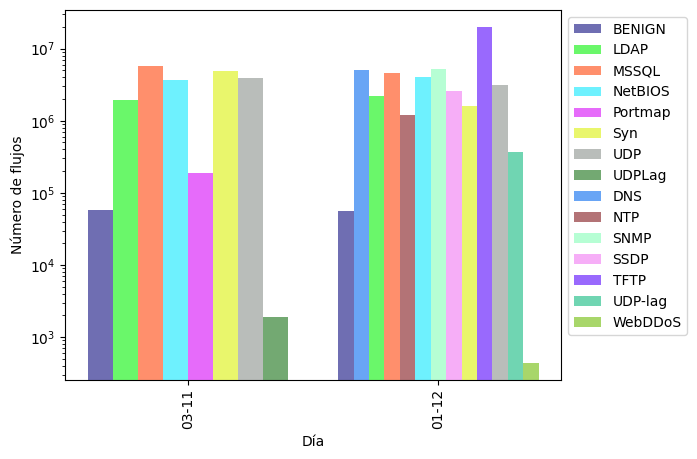
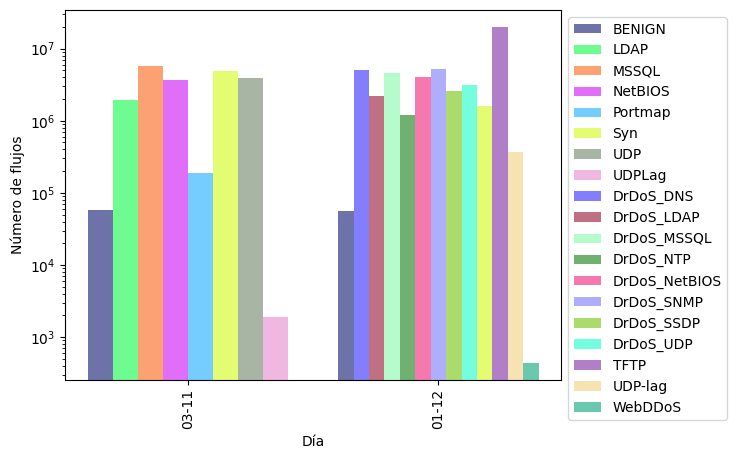
add timeline cicddos attacks + not remove DrDoS

diff --git a/scripts/plot_info_cicddos_2019.py b/scripts/plot_info_cicddos_2019.py
@@ -1,9 +1,11 @@
 
+from matplotlib.dates import DateFormatter
 import numpy as np  
 import matplotlib.pyplot as plt
 import distinctipy
 import json
 from pathlib import Path
+from datetime import datetime
 
 RESULT_FOLDER = Path("./tmp/")
 RESULT_FILENAME = "info_cicddos_2019.json"
@@ -12,6 +14,9 @@ REPORT_MEDIA_FOLDER = Path("./report/media/")
 def read_from_json(file: str):
     with open(file, 'r') as f:
         return json.loads(f.read())
+
+def get_text_color_from_bg(background_color):
+    return (0,0,0) if (background_color[0]*0.299 + background_color[1]*0.587 + background_color[2]*0.114) > 150/255 else (1,1,1)
 
 def generate_bars_labels_by_file(results: dict):
     for day in results:
@@ -72,14 +77,11 @@ def generate_histogram_labels_full(results):
         label_counts = {}
         for file in results[day]:
             for label in (results[day][file]['labels'].keys()):
-                # Ignore prefix if it exists
-                label_clean = label.split("_")[-1]
-
                 # Count
-                if label_clean in label_counts:
-                    label_counts[label_clean] += results[day][file]['labels'][label]['number']
+                if label in label_counts:
+                    label_counts[label] += results[day][file]['labels'][label]['number']
                 else:
-                    label_counts[label_clean] = results[day][file]['labels'][label]['number']
+                    label_counts[label] = results[day][file]['labels'][label]['number']
 
         # Generate bars
         x_axis_bar_group_start = x_axis - group_width/2
@@ -115,11 +117,73 @@ def generate_histogram_labels_full(results):
 
     plt.savefig(REPORT_MEDIA_FOLDER / f'./cicddos_2019_csv_day_results.png', bbox_inches="tight")
 
+def generate_timeline(results):
+    for day in results:
+        plt.clf()
+        fig, ax = plt.subplots(figsize=(20, 5))
+
+        # Generate a sorted list of csv times
+        file_times = []
+        for file in results[day]:
+            file_times.append({
+                "first_csv_time": datetime.fromisoformat(results[day][file]['first_csv_time']),
+                "last_csv_time": datetime.fromisoformat(results[day][file]['last_csv_time']),
+                "file": file
+            })
+        file_times = sorted(file_times, key=lambda v: v["first_csv_time"])
+        
+        # Convert the list of the csv to the broken_barh format
+        file_times_increments = []
+        for file in file_times:
+            file_times_increments.append((file["first_csv_time"], file["last_csv_time"] - file["first_csv_time"]))
+
+        # Plot the list of values
+        file_times_increments_col = distinctipy.get_colors(len(file_times_increments), pastel_factor=0.7)
+        plt.broken_barh(file_times_increments, (10, 15), facecolors=file_times_increments_col)
+
+        # Annotate each file
+        for file,background_color in zip(file_times, file_times_increments_col):
+            text_color = get_text_color_from_bg(background_color)
+            plt.annotate(file["file"], (file["first_csv_time"] + (file["last_csv_time"] - file["first_csv_time"])/2, 10+15/2), verticalalignment="center", horizontalalignment='center', rotation=90, color=text_color)
+
+        # Generate a sorted list of attack times
+        attack_times = []
+        for file in results[day]:
+            for label in results[day][file]['labels']:
+                if label == 'BENIGN':
+                    continue
+                attack_times.append({
+                    "first_time": datetime.fromisoformat(results[day][file]['labels'][label]['first_time']),
+                    "last_time": datetime.fromisoformat(results[day][file]['labels'][label]['last_time']),
+                    "attack": label
+                })
+        attack_times = sorted(attack_times, key=lambda v: v["first_time"])
+
+        # Convert the list of the attacks to the broken_barh format
+        attack_times_increments = []
+        for attack in attack_times:
+            attack_times_increments.append((attack["first_time"], attack["last_time"] - attack["first_time"]))
+
+        # Plot the list of values
+        attack_times_increments_col = distinctipy.get_colors(len(attack_times_increments), pastel_factor=0.7)
+        plt.broken_barh(attack_times_increments, (10+15+1, 15), facecolors=attack_times_increments_col)
+
+        # Annotate each attack
+        for attack,background_color in zip(attack_times, attack_times_increments_col):
+            text_color = get_text_color_from_bg(background_color)
+            plt.annotate(attack["attack"], (attack["first_time"] + (attack["last_time"] - attack["first_time"])/2, 10+15+1+15/2), verticalalignment="center", horizontalalignment='center', rotation=90, color=text_color)
+
+        # Set axis
+        plt.yticks([])
+        ax.xaxis.set_major_formatter(DateFormatter("%m-%d %H:%M"))
+        plt.savefig(REPORT_MEDIA_FOLDER / f'./cicddos_2019_csv_{day}_timeline.png', bbox_inches="tight")
+
 def main():
     RESULT_FOLDER.mkdir(parents=True, exist_ok=True)
     results = read_from_json(RESULT_FOLDER / RESULT_FILENAME)
     generate_bars_labels_by_file(results)
     generate_histogram_labels_full(results)
+    generate_timeline(results)
 
 if __name__ == "__main__":
     main()
